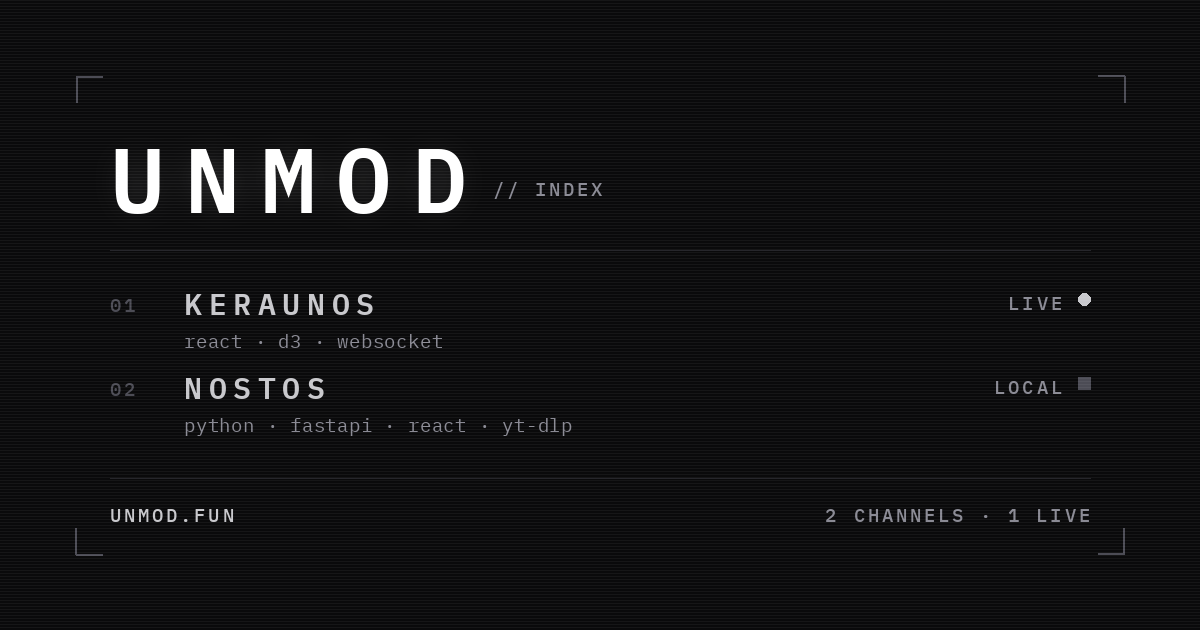
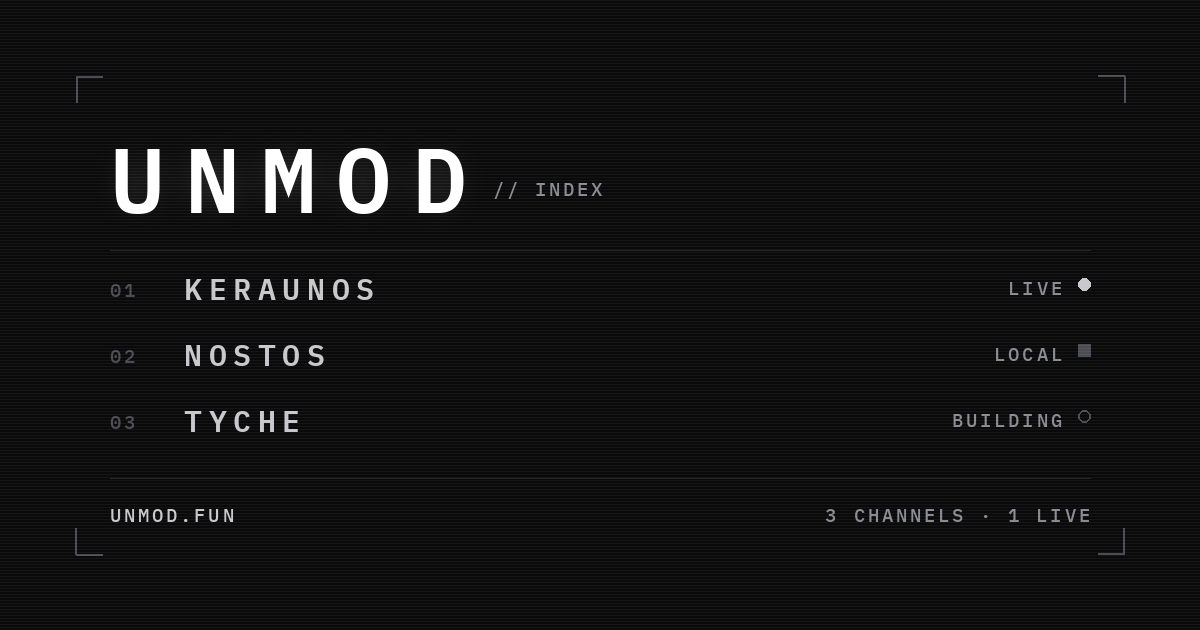
Add Tyche to the catalogue, redraw the card

diff --git a/records.js b/records.js
@@ -25,4 +25,12 @@ export const RECORDS = [
     stack: 'python · fastapi · react · yt-dlp',
     status: 'local',
   },
+  {
+    name: 'TYCHE',
+    etym: 'τύχη · fortune, the lot that falls',
+    desc: 'Forty random Ethereum keypairs a roll, read against the chain. A free lottery at one in 2^160, played on a contact sheet. Nothing has ever been found and that is most of the point.',
+    host: 'tyche.unmod.fun',
+    stack: 'react · ethers · etherscan',
+    status: 'building',
+  },
 ];
